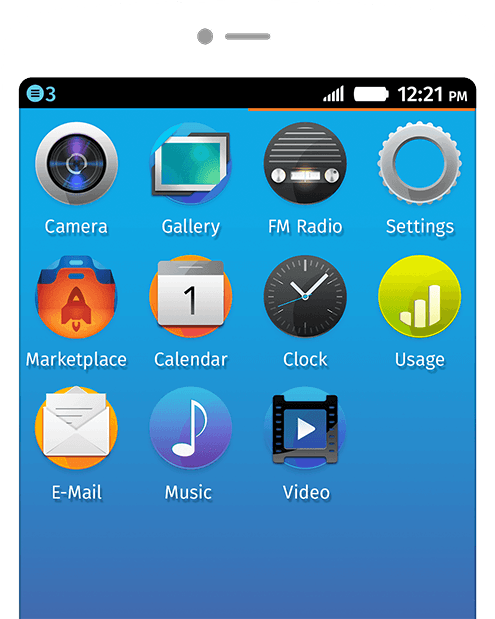
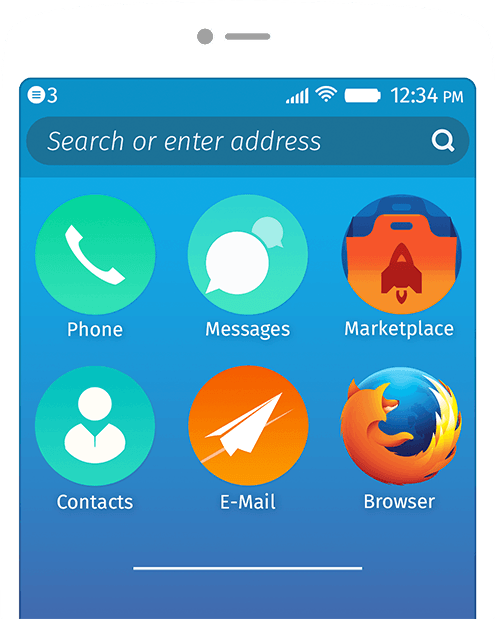
UI changes to navbar login options
* Use icons for login/user options
* Inject persona form to skip one step
* Update homescreen screenshot

diff --git a/feedthefox/base/templates/jinja2/base.html b/feedthefox/base/templates/jinja2/base.html
@@ -42,22 +42,32 @@
                 <li class="dropdown">
                   <a href="#" class="dropdown-toggle" data-toggle="dropdown" role="button"
                       aria-haspopup="true" aria-expanded="false">
-                    <span class="glyphicon glyphicon-user" aria-hidden="true"></span>
-                    <span class="profile-word">
-                      {% if request.user.is_authenticated() %}Profile{% else %}Connect{% endif %} </span>
+                    {% if request.user.is_authenticated() %}
+                      <i class="fa fa-user"></i>
+                      <span class="profile-word">Me</span>
+                    {% else %}
+                      <i class="fa fa-sign-in"></i>
+                      <span class="profile-word">Connect</span>
+                    {% endif %}
                   </a>
                   <ul class="dropdown-menu">
                     {% if request.user.is_authenticated() %}
-                      <li><a href="{{ url('profile') }}">Me</a></li>
-                      <li><a href="{{ url('account_logout') }}">Logout</a></li>
+                      <li><a href="{{ url('profile') }}"><i class="fa fa-eye"></i> Profile</a></li>
+                      <li><a href="{{ url('account_logout') }}"><i class="fa fa-sign-out"></i> Logout</a></li>
                     {% else %}
                       <li>
-                        <a href="{{ url('account_login') }}">Persona Login</a>
+                        <a href="javascript:allauth.persona.login('', 'login')"><i class="fa fa-user"></i> Persona</a>
                       </li>
                       <li>
-                        <a href="#">Github Login</a>
+                        <a href="#"><i class="fa fa-github"></i> Github</a>
                       </li>
                     {% endif %}
+                    <form id="_persona_login" method="post" action="{{ url('persona_login') }}">
+                      {% csrf_token %}
+                      <input type="hidden" name="next" value="" id="_persona_next_url"/>
+                      <input type="hidden" name="process" value="" id="_persona_process"/>
+                      <input type="hidden" name="assertion" id="_persona_assertion"/>
+                    </form>
                   </ul>
                 </li>
               </ul>
@@ -121,6 +131,8 @@
 
     <script src="{{ static('js/jquery-2.1.1.min.js') }}"></script>
     <script src="{{ static('js/bootstrap.min.js') }}"></script>
+    <script src="https://login.persona.org/include.js"></script>
+    <script src="{{ static('js/auth.js') }}"></script>
     <script src="{{ static('js/app.js') }}"></script>
     {% block js %}{% endblock %}
   </body>

diff --git a/feedthefox/base/static/js/auth.js b/feedthefox/base/static/js/auth.js
@@ -1,0 +1,25 @@
+(function() {
+    var allauth = window.allauth = window.allauth || {};
+
+    function startWatching() {
+        navigator.id.watch({
+            onlogin: function(assertion) {
+                // TODO: next url handling
+                document.getElementById("_persona_assertion").value = assertion;
+                document.getElementById("_persona_login").submit();
+            },
+            onlogout: function() {
+                // TODO
+            }
+        })
+    };
+
+    allauth.persona = {
+        login: function(nextUrl, process) {
+            document.getElementById("_persona_next_url").value = nextUrl || '';
+            document.getElementById("_persona_process").value = process;
+            startWatching();
+            navigator.id.request({});
+        }
+    }
+})();

diff --git a/feedthefox/base/static/css/app.css b/feedthefox/base/static/css/app.css
@@ -96,6 +96,10 @@ hr {
     background-color: #0C99D5;
 }
 
+.modal-dialog {
+    margin-top: 100px;
+}
+
 .fxfamilynav-logo {
     float: left;
     width: 140px;
@@ -152,6 +156,13 @@ header {
 .navbar-default .navbar-nav > li > a:hover,
 .logo-wordmark:hover {
     color: #fff;
+}
+
+.navbar-default .navbar-nav > .open > a,
+.navbar-default .navbar-nav > .open > a:hover,
+.navbar-default .navbar-nav > .open > a:focus {
+    color: #fff;
+    background-color: transparent;
 }
 
 .navbar-sticky {
